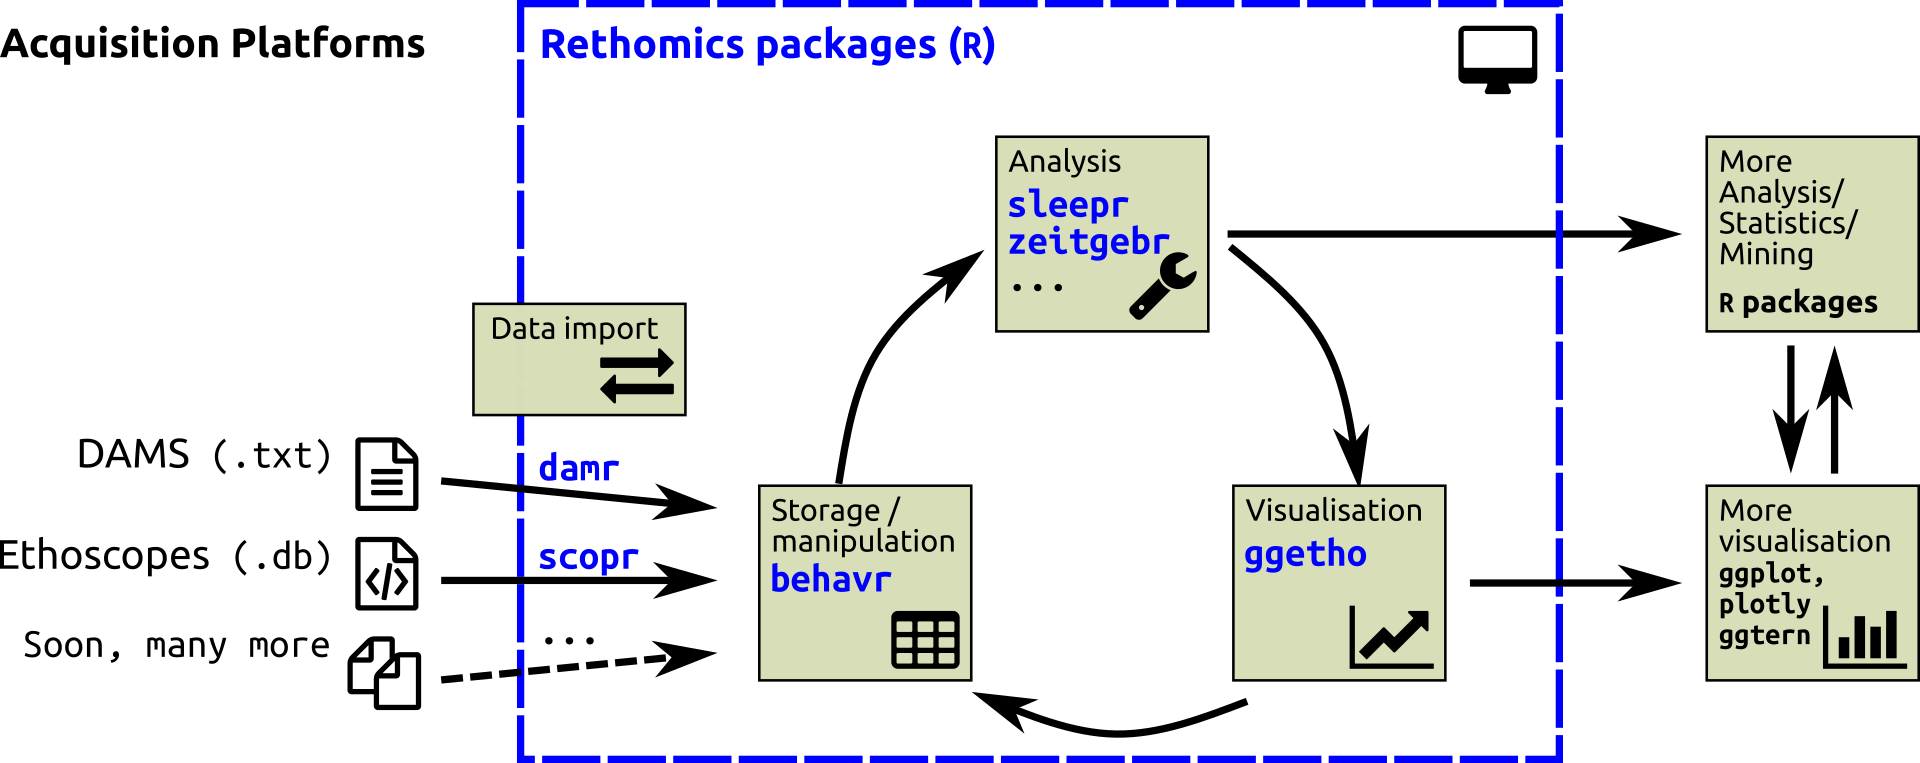
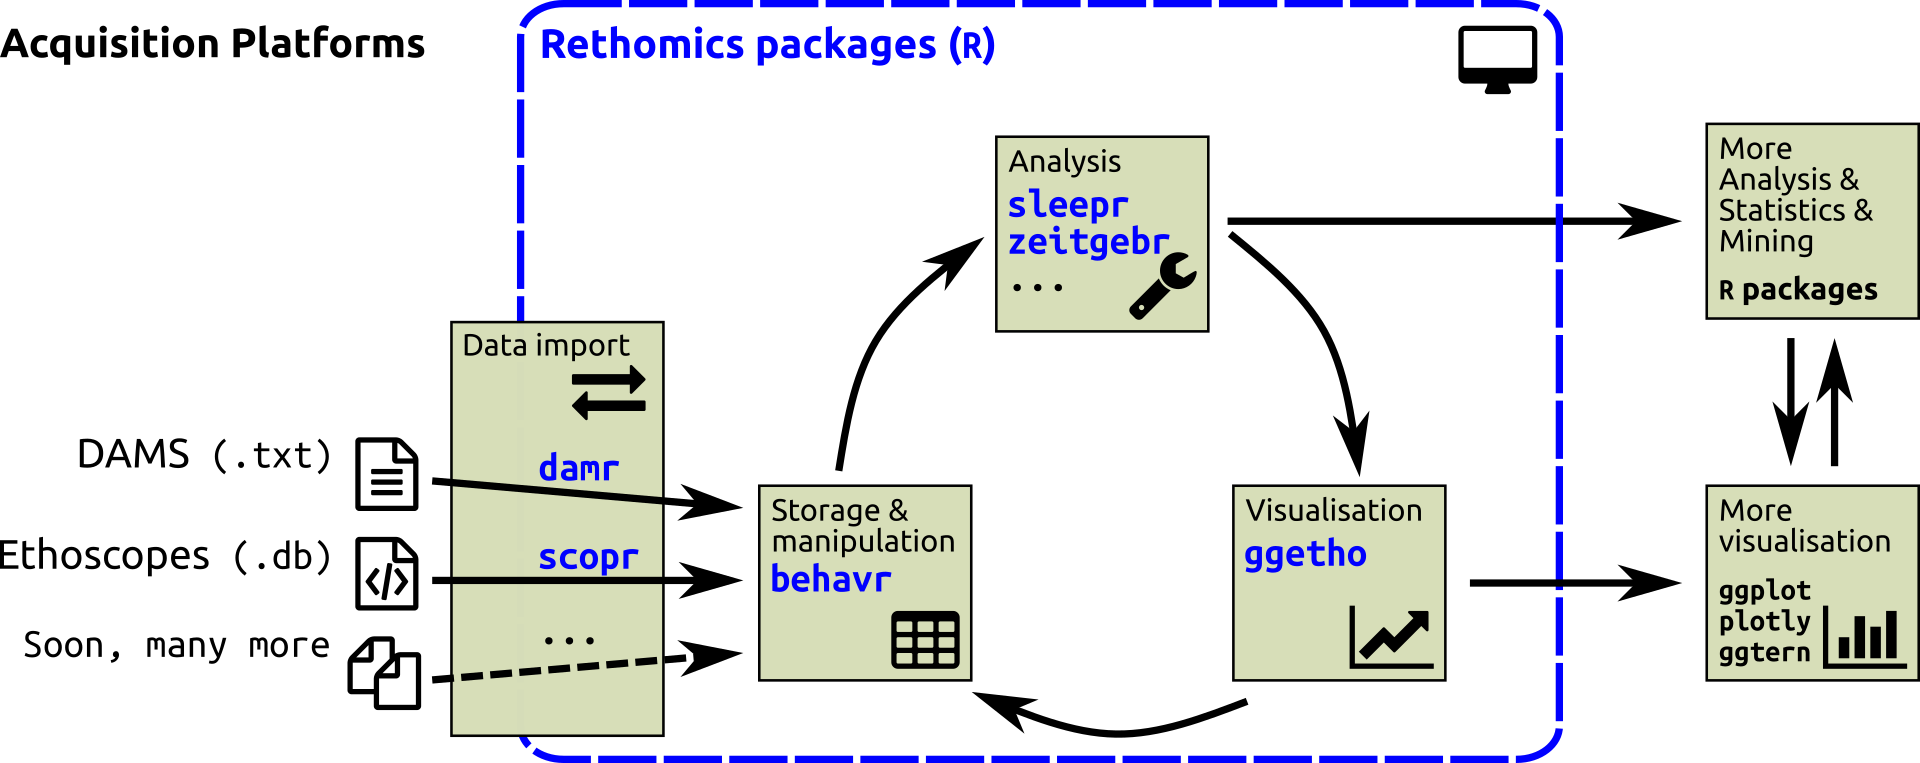
Automatic deployment after 891ae63f4c5d80cf43fa8ce688698a378e73ec62 [ci skip]

diff --git a/workflow.html b/workflow.html
@@ -109,9 +109,11 @@ code > span.in { color: #60a0b0; font-weight: bold; font-style: italic; } /* Inf
 <li class="chapter" data-level="" data-path="intro.html"><a href="intro.html#installing-rethomics-packages"><i class="fa fa-check"></i>Installing rethomics packages</a></li>
 <li><a href="intro.html#list-of-rethomics-packages">List of <code>rethomics</code> packages</a></li>
 </ul></li>
-<li><a href="workflow.html#workflow">The <code>rethomics</code> workflow</a></li>
+<li><a href="workflow.html#workflow">The <code>rethomics</code> workflow</a><ul>
+<li class="chapter" data-level="" data-path="workflow.html"><a href="workflow.html"><i class="fa fa-check"></i>Behavioural experiments in paractice</a></li>
+</ul></li>
 <li class="chapter" data-level="" data-path="queries.html"><a href="queries.html"><i class="fa fa-check"></i>Working with queries</a><ul>
-<li class="chapter" data-level="" data-path="queries.html"><a href="queries.html#what-is-a-query"><i class="fa fa-check"></i>What is a query</a></li>
+<li class="chapter" data-level="" data-path="queries.html"><a href="queries.html#what-is-a-query"><i class="fa fa-check"></i>What is a query?</a></li>
 <li class="chapter" data-level="" data-path="queries.html"><a href="queries.html#make-them-exhaustive"><i class="fa fa-check"></i>Make them exhaustive</a></li>
 <li class="chapter" data-level="" data-path="queries.html"><a href="queries.html#put-replicates-together"><i class="fa fa-check"></i>Put replicates together</a></li>
 </ul></li>
@@ -148,11 +150,24 @@ code > span.in { color: #60a0b0; font-weight: bold; font-style: italic; } /* Inf
             <section class="normal" id="section-">
 <div id="workflow" class="section level1 unnumbered">
 <h1>The <code>rethomics</code> workflow</h1>
+<p><strong>From hypothesis to results</strong></p>
+<hr />
 <div class="figure">
-<img src="" alt="todo figure" />
-<p class="caption">todo figure</p>
+<img src="assets/workflow.png" alt="The rethomics workflow" />
+<p class="caption">The rethomics workflow</p>
 </div>
+<div id="behavioural-experiments-in-paractice" class="section level2 unnumbered">
+<h2>Behavioural experiments in paractice</h2>
+<p>In rethomics, we envisage behavioural experiments as a workflow:</p>
+<ol style="list-style-type: decimal">
+<li><strong>Design</strong> – you plan your experiment (I can’t really help you with that, but I trust you!).</li>
+<li><strong>Record/track</strong> – you use your acquisition platfrom to record behavioural variables over time. They define the format of the results.</li>
+<li><strong>Write individual information</strong> – you make a spreadsheet (CSV file) that details the experimental conditions <strong>for each individual</strong>. We call this a <strong>query file</strong>. It is a crucial concept in rethomics, so we will dedicate it the <a href="queries.html#queries">next section</a>. You can often write your query as you plan your experiment, but sometimes, you want to enrich it with varibles that you can only record after your experiment (e.g. lifespan).</li>
+<li><strong>Import</strong> – you use one of <code>rethomics</code>’s package to load <strong>all your data into a single<code>behavr</code> table</strong> (see <a href="behavr.html#behavr">section on <code>behavr</code> tables</a>).</li>
+<li><strong>Tranform &amp; analyse &amp; visualise</strong> – you take advantage of <code>rethomics</code> and <code>R</code> analysis and visualisation tools.</li>
+</ol>
 
+</div>
 </div>
             </section>
 

diff --git a/queries.html b/queries.html
@@ -109,9 +109,11 @@ code > span.in { color: #60a0b0; font-weight: bold; font-style: italic; } /* Inf
 <li class="chapter" data-level="" data-path="intro.html"><a href="intro.html#installing-rethomics-packages"><i class="fa fa-check"></i>Installing rethomics packages</a></li>
 <li><a href="intro.html#list-of-rethomics-packages">List of <code>rethomics</code> packages</a></li>
 </ul></li>
-<li><a href="workflow.html#workflow">The <code>rethomics</code> workflow</a></li>
+<li><a href="workflow.html#workflow">The <code>rethomics</code> workflow</a><ul>
+<li class="chapter" data-level="" data-path="workflow.html"><a href="workflow.html"><i class="fa fa-check"></i>Behavioural experiments in paractice</a></li>
+</ul></li>
 <li class="chapter" data-level="" data-path="queries.html"><a href="queries.html"><i class="fa fa-check"></i>Working with queries</a><ul>
-<li class="chapter" data-level="" data-path="queries.html"><a href="queries.html#what-is-a-query"><i class="fa fa-check"></i>What is a query</a></li>
+<li class="chapter" data-level="" data-path="queries.html"><a href="queries.html#what-is-a-query"><i class="fa fa-check"></i>What is a query?</a></li>
 <li class="chapter" data-level="" data-path="queries.html"><a href="queries.html#make-them-exhaustive"><i class="fa fa-check"></i>Make them exhaustive</a></li>
 <li class="chapter" data-level="" data-path="queries.html"><a href="queries.html#put-replicates-together"><i class="fa fa-check"></i>Put replicates together</a></li>
 </ul></li>
@@ -155,7 +157,7 @@ code > span.in { color: #60a0b0; font-weight: bold; font-style: italic; } /* Inf
 <p class="caption">Schematic of a query</p>
 </div>
 <div id="what-is-a-query" class="section level2 unnumbered">
-<h2>What is a query</h2>
+<h2>What is a query?</h2>
 <p>When performing many experiments, with multiple condidions and replicates, it becomes challenging to keep track of each individual and to link it to its actual data. In <code>rethomics</code>, regardless of the tool used to generate data, loading results always involves a query. <strong>A query is a simple CSV file</strong> (basically a spreadsheet) in which <strong>each row defines one unique animal</strong>.</p>
 <p>As shown in the figure above, queries contain two types of columns:</p>
 <ul>

diff --git a/behavr.html b/behavr.html
@@ -109,9 +109,11 @@ code > span.in { color: #60a0b0; font-weight: bold; font-style: italic; } /* Inf
 <li class="chapter" data-level="" data-path="intro.html"><a href="intro.html#installing-rethomics-packages"><i class="fa fa-check"></i>Installing rethomics packages</a></li>
 <li><a href="intro.html#list-of-rethomics-packages">List of <code>rethomics</code> packages</a></li>
 </ul></li>
-<li><a href="workflow.html#workflow">The <code>rethomics</code> workflow</a></li>
+<li><a href="workflow.html#workflow">The <code>rethomics</code> workflow</a><ul>
+<li class="chapter" data-level="" data-path="workflow.html"><a href="workflow.html"><i class="fa fa-check"></i>Behavioural experiments in paractice</a></li>
+</ul></li>
 <li class="chapter" data-level="" data-path="queries.html"><a href="queries.html"><i class="fa fa-check"></i>Working with queries</a><ul>
-<li class="chapter" data-level="" data-path="queries.html"><a href="queries.html#what-is-a-query"><i class="fa fa-check"></i>What is a query</a></li>
+<li class="chapter" data-level="" data-path="queries.html"><a href="queries.html#what-is-a-query"><i class="fa fa-check"></i>What is a query?</a></li>
 <li class="chapter" data-level="" data-path="queries.html"><a href="queries.html#make-them-exhaustive"><i class="fa fa-check"></i>Make them exhaustive</a></li>
 <li class="chapter" data-level="" data-path="queries.html"><a href="queries.html#put-replicates-together"><i class="fa fa-check"></i>Put replicates together</a></li>
 </ul></li>

diff --git a/index.html b/index.html
@@ -109,9 +109,11 @@ code > span.in { color: #60a0b0; font-weight: bold; font-style: italic; } /* Inf
 <li class="chapter" data-level="" data-path="intro.html"><a href="intro.html#installing-rethomics-packages"><i class="fa fa-check"></i>Installing rethomics packages</a></li>
 <li><a href="intro.html#list-of-rethomics-packages">List of <code>rethomics</code> packages</a></li>
 </ul></li>
-<li><a href="workflow.html#workflow">The <code>rethomics</code> workflow</a></li>
+<li><a href="workflow.html#workflow">The <code>rethomics</code> workflow</a><ul>
+<li class="chapter" data-level="" data-path="workflow.html"><a href="workflow.html"><i class="fa fa-check"></i>Behavioural experiments in paractice</a></li>
+</ul></li>
 <li class="chapter" data-level="" data-path="queries.html"><a href="queries.html"><i class="fa fa-check"></i>Working with queries</a><ul>
-<li class="chapter" data-level="" data-path="queries.html"><a href="queries.html#what-is-a-query"><i class="fa fa-check"></i>What is a query</a></li>
+<li class="chapter" data-level="" data-path="queries.html"><a href="queries.html#what-is-a-query"><i class="fa fa-check"></i>What is a query?</a></li>
 <li class="chapter" data-level="" data-path="queries.html"><a href="queries.html#make-them-exhaustive"><i class="fa fa-check"></i>Make them exhaustive</a></li>
 <li class="chapter" data-level="" data-path="queries.html"><a href="queries.html#put-replicates-together"><i class="fa fa-check"></i>Put replicates together</a></li>
 </ul></li>

diff --git a/intro.html b/intro.html
@@ -109,9 +109,11 @@ code > span.in { color: #60a0b0; font-weight: bold; font-style: italic; } /* Inf
 <li class="chapter" data-level="" data-path="intro.html"><a href="intro.html#installing-rethomics-packages"><i class="fa fa-check"></i>Installing rethomics packages</a></li>
 <li><a href="intro.html#list-of-rethomics-packages">List of <code>rethomics</code> packages</a></li>
 </ul></li>
-<li><a href="workflow.html#workflow">The <code>rethomics</code> workflow</a></li>
+<li><a href="workflow.html#workflow">The <code>rethomics</code> workflow</a><ul>
+<li class="chapter" data-level="" data-path="workflow.html"><a href="workflow.html"><i class="fa fa-check"></i>Behavioural experiments in paractice</a></li>
+</ul></li>
 <li class="chapter" data-level="" data-path="queries.html"><a href="queries.html"><i class="fa fa-check"></i>Working with queries</a><ul>
-<li class="chapter" data-level="" data-path="queries.html"><a href="queries.html#what-is-a-query"><i class="fa fa-check"></i>What is a query</a></li>
+<li class="chapter" data-level="" data-path="queries.html"><a href="queries.html#what-is-a-query"><i class="fa fa-check"></i>What is a query?</a></li>
 <li class="chapter" data-level="" data-path="queries.html"><a href="queries.html#make-them-exhaustive"><i class="fa fa-check"></i>Make them exhaustive</a></li>
 <li class="chapter" data-level="" data-path="queries.html"><a href="queries.html#put-replicates-together"><i class="fa fa-check"></i>Put replicates together</a></li>
 </ul></li>
